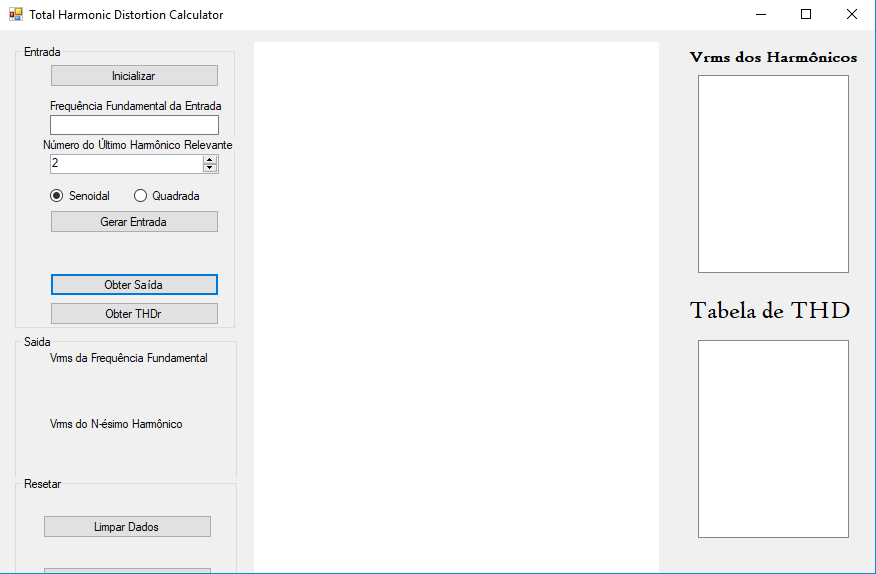
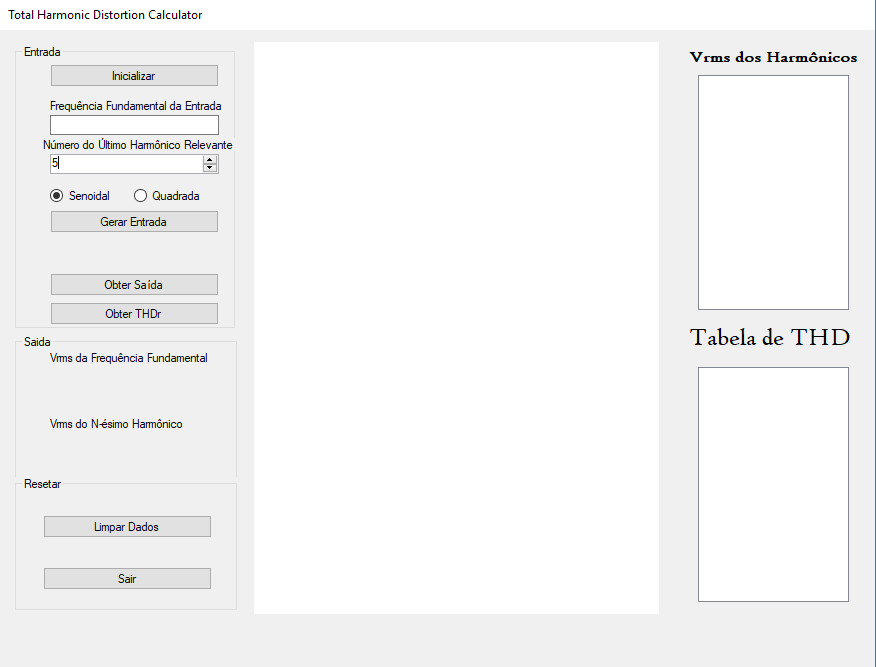
Atualização 2 da documentação

diff --git a/README.md b/README.md
@@ -24,5 +24,10 @@ Por fim, tem-se a opção **Parar**, que reseta os dados e a opção **Sair** pa
 
 Nesta versão fazemos a inicialização, captura e análise de dados ao clicar em Capturar. Porém ainda não foi testado no osciloscópio, logo o objeto myScope não está sendo inicializado o que faz com que ocorra um erro e depois o fechamento do programa, que foi representado por uma caixa de mensagem escrito **Close**.
 
-## Próximo passo
-Testar este programa no osciloscópio.
+## Versão 2.0
+
+Nesta segunda versão, tem-se a possibilidade de gerar entrada senoidal ou quadrada, obter a FFT, obter os valores de potência dos harmônicos.
+
+## Interface da versão 2.0
+
+![](https://github.com/ProgramacaoEE2018/brasil_harmonicos/blob/master/Imagens/ResultadoParcial5.PNG)
